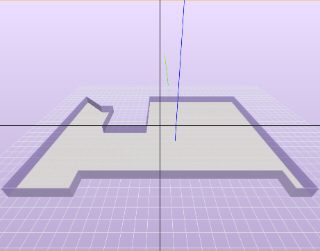
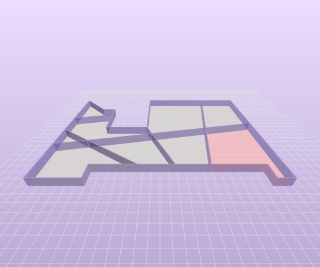
连通区域

diff --git a/services/editorService.js b/services/editorService.js
@@ -34,32 +34,43 @@ class EditorService {
 	 * @returns 地图信息
 	 */
 	async findMapById(mapId, userId) {
+
 		let mapObject = null;
 		let buildingObjects = [];
 		let floorObjects = [];
 		let wallObjects = [];
 		let areaObjects = [];
 		let poiObjects = [];
+		let pipeObjects = [];
+
 		// 获取map信息
 		const mapInfo = await Map.findByPk(mapId, { where: { deleted_at: null, map_owner: userId }, raw: true });
 		mapObject = this.generateMap(mapInfo);
+
 		// 获取building信息
 		let buildings = jsonUtil.jsonToObject(mapInfo.map_attach_building);
 		const buildingInfo = await Building.findAll({ where: { building_id: { [Op.in]: buildings }, deleted_at: null }, raw: true });
+
 		// 遍历所有building
 		for (let b of buildingInfo) {
+
 			// 获取floor信息
 			let floors = jsonUtil.jsonToObject(b.building_attach_floor);
 			const floorInfo = await Floor.findAll({ where: { floor_id: { [Op.in]: floors }, deleted_at: null }, raw: true });
 			let floorLevelMap = {};
+			let floorIdLevelMap = {};
+
 			// 遍历所有floor
 			for (let f of floorInfo) {
 				floorLevelMap[f.floor_level] = f.floor_id;
+				floorIdLevelMap[f.floor_id] = f.floor_level;
 				floorObjects.push(this.generateFloor(f, b.building_floor_height));
+
 				// 获取wall信息
 				let wall = f.floor_attach_wall;
 				const wallInfo = await Wall.findByPk(wall, { where: { deleted_at: null }, raw: true });
 				wallObjects.push(this.generateWall(wallInfo, b.building_floor_height, f.floor_level));
+
 				// 获取area信息
 				let areas = jsonUtil.jsonToObject(f.floor_attach_area);
 				const areaInfo = await Area.findAll({ where: { area_id: { [Op.in]: areas }, deleted_at: null }, raw: true });
@@ -67,6 +78,7 @@ class EditorService {
 				for (let a of areaInfo) {
 					areaObjects.push(this.generateArea(a));
 				}
+
 				// 获取POI信息
 				let pois = jsonUtil.jsonToObject(f.floor_attach_poi);
 				const poiInfo = await POI.findAll({ where: { poi_id: { [Op.in]: pois }, deleted_at: null }, raw: true });
@@ -74,14 +86,43 @@ class EditorService {
 				for (let p of poiInfo) {
 					poiObjects.push(this.generatePOI(p));
 				}
+
+				// 获取水平连通区域信息
+				let pipes = jsonUtil.jsonToObject(f.floor_attach_pipe);
+				logger.info(pipes);
+				const pipeInfo = await Pipe.findAll({ where: { pipe_id: { [Op.in]: pipes }, deleted_at: null }, raw: true });
+				// 遍历水平连通区域
+				for (let p of pipeInfo) {
+					pipeObjects.push(this.generatePipe(p));
+				}
 			}
+
+			// 获取所有楼层层号组成的列表并排序
 			let floorLevelList = Object.keys(floorLevelMap).map(v => +v);
 			floorLevelList.sort((a, b) => b - a);
+
+			// 获取垂直连通区域信息
+			let pipes = jsonUtil.jsonToObject(b.building_attach_pipe);
+			const pipeInfo = await Pipe.findAll({ where: { pipe_id: { [Op.in]: pipes }, deleted_at: null }, raw: true });
+			// 遍历垂直连通区域
+			for (let p of pipeInfo) {
+				let floors = jsonUtil.jsonToObject(p.pipe_belong_floor);
+				pipeObjects.push(
+					this.generatePipe(p)
+				);
+			}
+
+			// 构建建筑对象
 			buildingObjects.push(this.generateBuilding(b, floorLevelList[0], floorLevelList[floorLevelList.length - 1], floorLevelList, floorLevelMap));
 		}
-		return { mapObject, buildingObjects, floorObjects, wallObjects, areaObjects, poiObjects };
+
+		return { mapObject, buildingObjects, floorObjects, wallObjects, areaObjects, poiObjects, pipeObjects };
 	}
 
+	/**
+	 * 加载所有POI资源
+	 * @returns POI资源列表
+	 */
 	async listPOIRes() {
 		const row = 6;
 		let res = {};
@@ -518,10 +559,10 @@ class EditorService {
 		return {
 			floor: this.generateFloor(targetFloor, building.building_floor_height),
 			wall: this.generateWall(targetWall, building.building_floor_height, targetFloor.floor_level),
-			area: targetAreaList.map(v => this.generateArea(v)),
-			component: targetComponentList.map(v => this.generateComponent(v)),
-			poi: targetPOIList.map(v => this.generatePOI(v)),
-			pipe: targetPipeList.map(v => this.generatePipe(v)),
+			areas: targetAreaList.map(v => this.generateArea(v)),
+			components: targetComponentList.map(v => this.generateComponent(v)),
+			pois: targetPOIList.map(v => this.generatePOI(v)),
+			pipes: targetPipeList.map(v => this.generatePipe(v)),
 		}
 	}
 
@@ -680,6 +721,69 @@ class EditorService {
 		return await poi.set(info).save({ raw: true });
 	}
 
+	async updatePipe(pipeId, info) {
+		let pipe = await Pipe.findByPk(pipeId);
+		const updated = await pipe.set(info).save({ raw: true });
+		return updated;
+	}
+
+	async createPipe(info) {
+		let pipe = await Pipe.create(info, { raw: true });
+		switch (+pipe.pipe_type) {
+			// 水平连通区域与楼层关联
+			case 0: {
+				let floorId = info.pipe_belong_floor;
+				let floor = await Floor.findByPk(floorId);
+				// 获取楼层包含的连通区域列表
+				let pipes = jsonUtil.jsonToObject(floor.floor_attach_pipe);
+				pipes.push(pipe.pipe_id)
+				await Floor.update({ floor_attach_pipe: JSON.stringify(pipes) }, { where: { floor_id: floorId } });
+				break;
+			}
+			// 垂直连通区域与建筑关联
+			case 1: {
+				let buildingId = info.pipe_belong_building;
+				let building = await Building.findByPk(buildingId);
+				// 获取建筑包含的连通区域列表
+				let pipes = jsonUtil.jsonToObject(building.building_attach_pipe);
+				pipes.push(pipe.pipe_id)
+				await Building.update({ building_attach_pipe: JSON.stringify(pipes) }, { where: { building_id: buildingId } });
+				break;
+			}
+		}
+		return this.generatePipe(pipe);
+	}
+
+	async deletePipe(pipeId) {
+		let pipe = await Pipe.findByPk(pipeId);
+		await pipe.set({ deleted_at: Date.now() }, { where: { pipe_id: pipeId } }).save();
+		switch (+pipe.pipe_type) {
+			// 水平连通区域与楼层关联
+			case 0: {
+				let floorId = pipe.pipe_belong_floor;
+				let floor = await Floor.findByPk(floorId);
+				// 获取楼层包含的连通区域列表
+				let pipes = jsonUtil.jsonToObject(floor.floor_attach_pipe);
+				let index = pipes.findIndex(p => p == pipeId);
+				pipes.splice(index, 1);
+				await Floor.update({ floor_attach_pipe: JSON.stringify(pipes) }, { where: { floor_id: floorId } });
+				break;
+			}
+			// 垂直连通区域与建筑关联
+			case 1: {
+				let buildingId = pipe.pipe_belong_building;
+				let building = await Building.findByPk(buildingId);
+				// 获取建筑包含的连通区域列表
+				let pipes = jsonUtil.jsonToObject(building.building_attach_pipe);
+				let index = pipes.findIndex(p => p == pipeId);
+				pipes.splice(index, 1);
+				await Building.update({ building_attach_pipe: JSON.stringify(pipes) }, { where: { building_id: buildingId } });
+				break;
+			}
+		}
+		return this.generatePipe(pipe);
+	}
+
 	generateMap(mapInfo) {
 		return {
 			"type": "Feature",
@@ -823,16 +927,22 @@ class EditorService {
 	}
 
 	generatePipe(pipeInfo) {
+		let pipe_belong_floor = -1;
+		if (+pipeInfo.pipe_type === 1) {
+			pipe_belong_floor = jsonUtil.jsonToObject(pipeInfo.pipe_belong_floor);
+		}
+		else {
+			pipe_belong_floor = +pipeInfo.pipe_belong_floor;
+		}
 		return {
 			"type": "Feature",
 			"properties": {
 				"model": "pipe",
 				"pipe_id": pipeInfo.pipe_id,
 				"pipe_name": pipeInfo.pipe_name,
-				"pipe_type": pipeInfo.pipe_type,
-				"pipe_height": pipeInfo.pipe_height,
-				"pipe_belong_floor": pipeInfo.pipe_belong_floor,
-				"pipe_belong_wall": pipeInfo.pipe_belong_wall,
+				"pipe_type": +pipeInfo.pipe_type,
+				"pipe_belong_floor": pipe_belong_floor,
+				"pipe_belong_building": pipeInfo.pipe_belong_building,
 			},
 			"geometry": jsonUtil.jsonToObject(pipeInfo.pipe_geometry)
 		}

diff --git a/controllers/editorController.js b/controllers/editorController.js
@@ -1,9 +1,6 @@
 const EditorService = require('../services/editorService');
 const checkUtil = require('../utils/checkUtil');
 const jsonUtil = require('../utils/jsonUtil');
-const mathUtil = require('../utils/mathUtil');
-const config = require('../models/editor');
-const { logger } = require('../middlewares/logger');
 
 class EditorController {
 
@@ -330,6 +327,45 @@ class EditorController {
     let { info } = ctx.request.body;
     let updated = await EditorService.instance.updatePOI(id, info);
     ctx.body = { poi: updated };
+  }
+
+  /**
+   * 更新连通区域
+   * @param {上下文} ctx 
+   */
+  async updatePipe(ctx) {
+    const checkParams = checkUtil.checkParams(ctx.params, true, "id");
+    if (!checkParams) throw { code: 515001, message: '缺少请求参数[id]' };
+    const checkBody = checkUtil.checkParams(ctx.request.body, true, "info");
+    if (!checkBody) throw { code: 515002, message: '缺少请求参数[info]' };
+    let { id } = ctx.params;
+    let { info } = ctx.request.body;
+    let updated = await EditorService.instance.updatePipe(id, info);
+    ctx.body = { pipe: updated };
+  }
+
+  /**
+   * 创建连通区域
+   * @param {上下文} ctx 
+   */
+  async createPipe(ctx) {
+    const checkBody = checkUtil.checkParams(ctx.request.body, true, "info");
+    if (!checkBody) throw { code: 516001, message: '缺少请求参数[info]' };
+    let { info } = ctx.request.body;
+    let created = await EditorService.instance.createPipe(info);
+    ctx.body = { pipe: created };
+  }
+
+  /**
+   * 删除连通区域
+   * @param {上下文} ctx 
+   */
+  async deletePipe(ctx) {
+    const checkParams = checkUtil.checkParams(ctx.params, true, "id");
+    if (!checkParams) throw { code: 517001, message: '缺少请求参数[id]' };
+    let { id } = ctx.params;
+    let deleted = await EditorService.instance.deletePipe(id);
+    ctx.body = { pipe: deleted };
   }
 
 }

diff --git a/models/editor.js b/models/editor.js
@@ -392,7 +392,7 @@ const Area = sequelize.define('Area', {
   area_type: {
     type: DataTypes.BIGINT,
     allowNull: false,
-    defaultValue: "",
+    defaultValue: 0,
     comment: '功能区类型'
   },
   area_belong_floor: {
@@ -610,17 +610,10 @@ const Pipe = sequelize.define('Pipe', {
     comment: '连通区域名称'
   },
   pipe_type: {
-    type: DataTypes.ENUM,
-    values: ['0', '1'],
-    allowNull: false,
-    defaultValue: '0',
-    comment: '连通区域类型(功能区0/楼层1)'
-  },
-  pipe_height: {
-    type: DataTypes.DECIMAL(4, 2),
+    type: DataTypes.TINYINT,
     allowNull: false,
     defaultValue: 0,
-    comment: '连通区域距离地面高度(0)'
+    comment: '连通区域类型(水平0/竖直1)'
   },
   pipe_geometry: {
     type: DataTypes.TEXT,
@@ -632,13 +625,13 @@ const Pipe = sequelize.define('Pipe', {
     type: DataTypes.TEXT,
     allowNull: false,
     defaultValue: '',
-    comment: '连通区域所属楼层(1)'
+    comment: '连通区域所属楼层(0/1)'
   },
-  pipe_belong_wall: {
+  pipe_belong_building: {
     type: DataTypes.BIGINT,
     allowNull: false,
     defaultValue: -1,
-    comment: '连通区域所属墙体(0)'
+    comment: '连通区域所属墙体(1)'
   },
   deleted_at: {
     type: DataTypes.DATE,

diff --git a/routes/editor.js b/routes/editor.js
@@ -20,5 +20,8 @@ router.post('/areas/:id/update', EditorController.instance.updateArea);
 router.post('/pois', EditorController.instance.createPOI);
 router.post('/pois/:id/delete', EditorController.instance.deletePOI);
 router.post('/pois/:id/update', EditorController.instance.updatePOI);
+router.post('/pipes/:id/update', EditorController.instance.updatePipe);
+router.post('/pipes', EditorController.instance.createPipe);
+router.post('/pipes/:id/delete', EditorController.instance.deletePipe);
 
 module.exports = router;

diff --git a/utils/jsonUtil.js b/utils/jsonUtil.js
@@ -1,9 +1,16 @@
 const { logger } = require("../middlewares/logger");
 
+/**
+ * 解析JSON字符串为数组
+ * @param {JSON字符串} str 
+ * @returns 数组
+ */
 function jsonToObject(str) {
+  // 若传入参数类型为非字符串或为空
   if (typeof (str) !== "string" || str === "") return [];
   try {
     let res = JSON.parse(str);
+    // 若解析结果异常
     if (res === null || typeof (res) !== "object") return [];
     return res;
   } catch (err) {

diff --git a/config.js b/config.js
@@ -13,7 +13,7 @@ module.exports = {
     // port: 3306
     database: 'reality',
     username: 'root',
-    password: 'root@123456',
+    password: '000624',
     host: '127.0.0.1',
     port: 3306
   }
